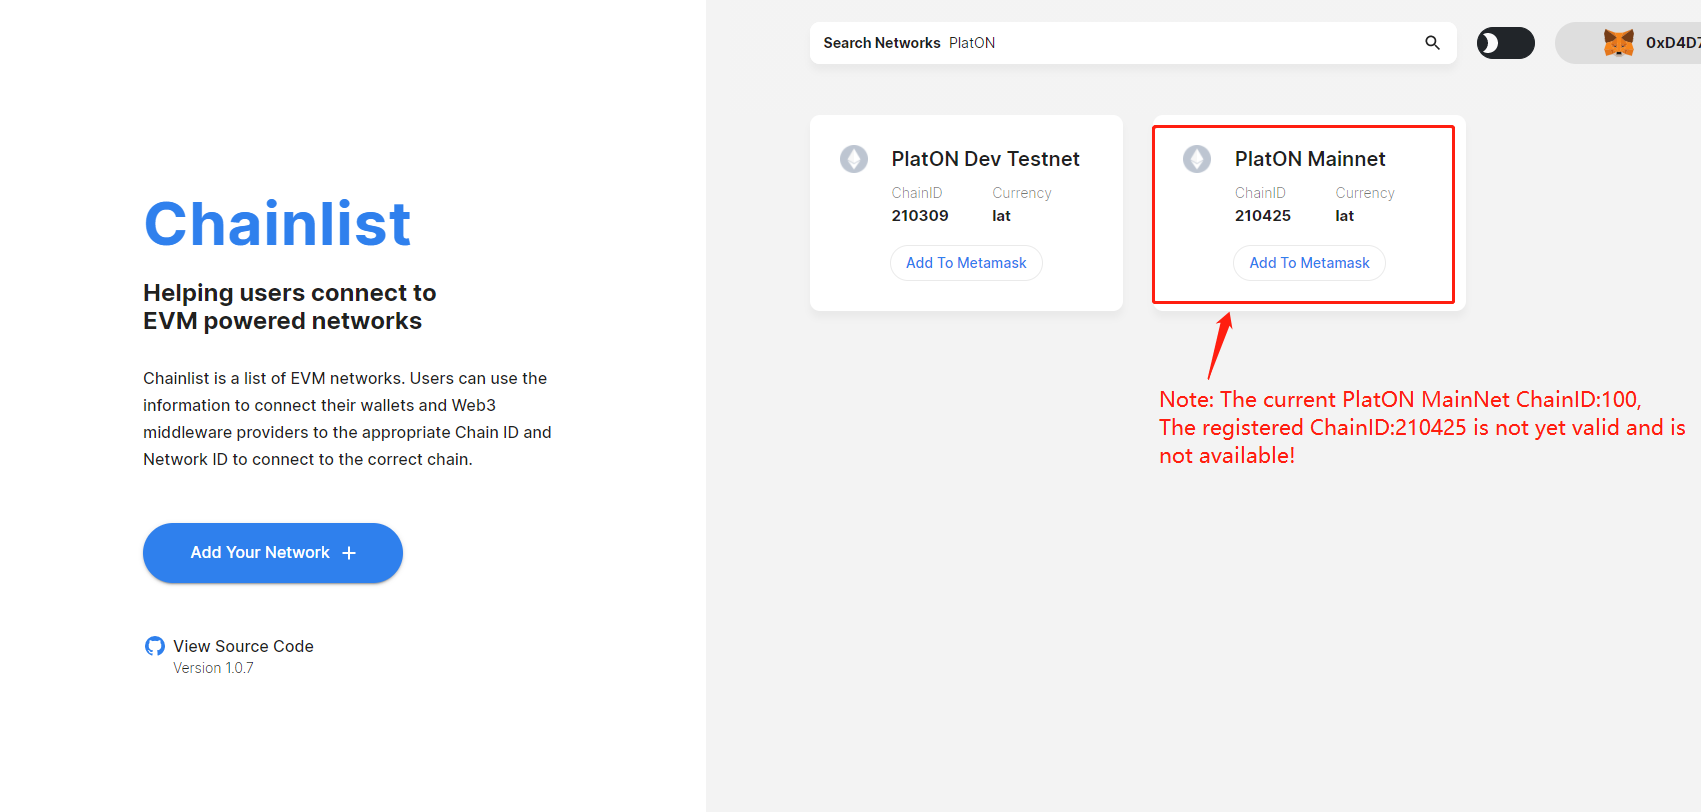
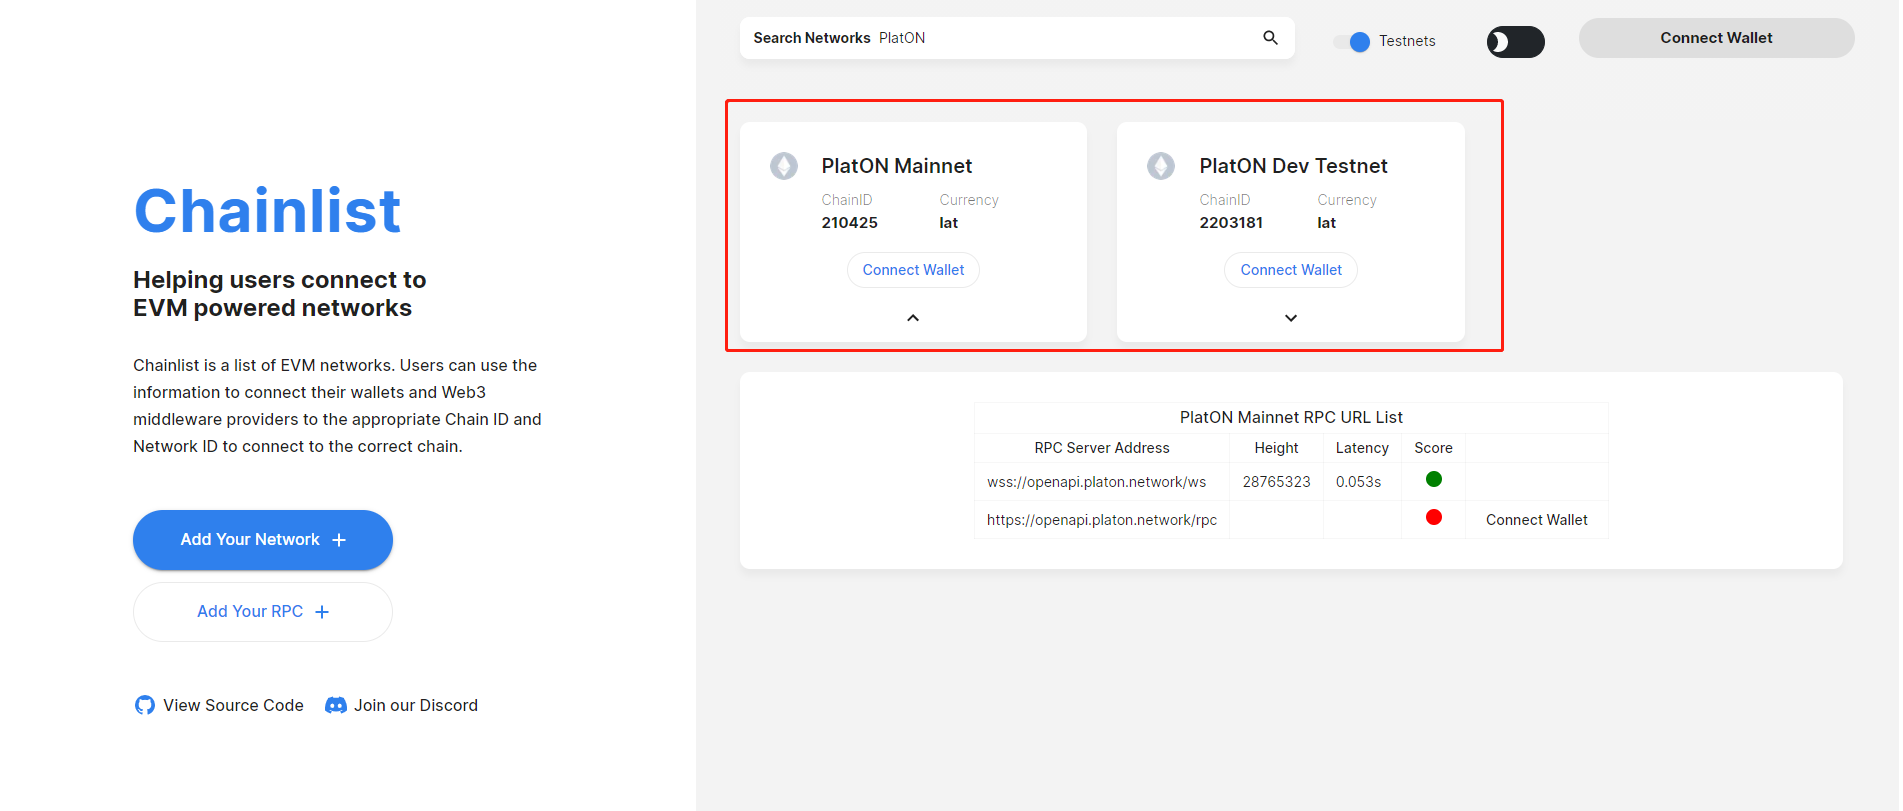
update-matemask

diff --git a/website/i18n/zh-CN/docusaurus-plugin-content-docs/current/MetaMask_Configure.md b/website/i18n/zh-CN/docusaurus-plugin-content-docs/current/MetaMask_Configure.md
@@ -36,9 +36,11 @@ MetaMask作为目前市面上用户量最多，应用最广泛的浏览器插件
 
 2. ATON钱包助记词与MetaMask助记词由于生成路径不一致，无法相互兼容。私钥兼容。
 
-3. MetaMask面向目前暂时不支持WASM合约调用，仅支持EVM合约。
+3. MetaMask目前暂时不支持WASM合约调用，仅支持EVM合约。
 
-4. **由于当前PlatON 主网络的ChainID（100）与xDai主网络相同，因此在MetaMask上配置PlatON主网络前，请删除MetaMask中的xDai主网络，或者通过“手动添加方式”配置PlatON主网络（忽略ChainID冲突的提示）。未来计划更新ChainID为210425，已在Chainlist注册（目前该ChainID：210425 不可用）**
+4. **原PlatON 主网络的ChainID：100，由于与xDai主网络相同，使用 ChainID:100 在 MetaMask上配置 PlatON主网络前，请删除MetaMask中的 xDai主网络，或者通过“手动添加方式”配置PlatON主网络（忽略ChainID冲突的提示）。**
+
+5. **从PlatON1.2.0版本开始(生效时间UTC 2022.4.15 11:00am )，PlatON主网将采用 ChainID：210425，并在未来的6~12个月支持双ChainID运行。建议应用开发者和用户尽早更新ChainID和使用的Node RPC。详见**https://forum.latticex.foundation/t/topic/6176 。
 
 
 
@@ -94,6 +96,20 @@ MetaMask作为目前市面上用户量最多，应用最广泛的浏览器插件
 
 依次填写上述信息，配置内容如下：
 
+- PlatON ChainID:210425 配置信息（推荐）
+
+```
+Network Name: PlatON MainNetwork
+New RPC URL: https://openapi2.platon.network/rpc
+Chain ID：210425
+Currency Symbol：LAT
+Block Explorer URL: https://scan.platon.network/
+```
+
+
+
+- PlatON ChainID:100  配置信息（不建议继续使用）
+
 ```
 Network Name: PlatON MainNetwork
 New RPC URL: https://openapi.platon.network/rpc
@@ -102,9 +118,11 @@ Currency Symbol：LAT
 Block Explorer URL: https://scan.platon.network/
 ```
 
-其他可用PlatON主网络RPC节点：
+其他可用PlatON主网络( ChainID:100 )RPC节点：
 
 > https://rpc.plateye.com（itokenpool提供）
+
+
 
 接着点击保存，等待完成即可。
 
@@ -261,14 +279,13 @@ http://8.220.31.172:6789 (ws://8.220.31.172:6790)
 
 <img src="/docs/img/en/MetaMask_Configure.assets/9800bbe80cff52b23b102f36b0eae9e0c05a7bbd_2_690x338.png" alt="9800bbe80cff52b23b102f36b0eae9e0c05a7bbd_2_690x338"/>
 
-**注意：
-当前PlatON主网ChainID:100，Chainlist已存在ChainID:100的链, 因此暂不支持在Chainlist上添加PlatON主网。注册的ChainID:210425暂未生效，不可用！！**
+**注意：PlatON1.2.0版本主网ChainID:210425已于UTC 2022.4.15 11:00am生效！**
 
 接着，点击“Add tTo MetaMask” 进行网络添加。
 
 <img src="/docs/img/en/MetaMask_Configure.assets/0acc9a52bb0d63ed11f2fb9063a12e059c754298_2_690x338.png" alt="0acc9a52bb0d63ed11f2fb9063a12e059c754298_2_690x338" />
 
-然后点击 **switch network** 就可以跳转到PlatON Dev网络啦！
+然后点击 **switch network** 就可以跳转到PlatON Mainnet或PlatON Dev网络啦！
 
 <img src="/docs/img/en/MetaMask_Configure.assets/image-20220112193135951.png" alt="image-20220112193135951"/>
 

diff --git a/docs/MetaMask_Configure.md b/docs/MetaMask_Configure.md
@@ -40,7 +40,9 @@ MetaMask makes operations such as transfer, signing, and contract interaction mo
 
 3. MetaMask cannot be called by WASM contracts, but EVM contracts only. 
 
-4. **Since the ChainID (100) of the current PlatON MainNet is the same as the xDai MainNet, before configuring the PlatON MainNet on MetaMask, please delete the xDai MainNet in MetaMask, or configure the PlatON MainNet by "manually adding" (Ignore the hint of ChainID conflict). Future plans to update the ChainID to 210425, already registered in Chainlist (currently this ChainID: 210425 is not available)** 
+4. **PlatON Main Network old ChainID: 100, as it is the same as xDai Main Network, please delete the xDai Main Network from MetaMask before configuring PlatON Main Network with ChainID:100, or configure PlatON Main Network by "Manual Add Method". (ignore the ChainID conflict prompt). ** 
+
+5. **Starting from PlatON version 1.2.0 (effective time 2022.4.15 11:00am UTC，For details see：https://forum.latticex.foundation/t/topic/6176 ), PlatON Main Network will adopt ChainID: 210425 and will support double ChainID operation in the next 6~12 months. Application developers and users are advised to update ChainID and the Node RPC used as early as possible.** 
 
 
 
@@ -98,6 +100,20 @@ Then scroll to the end and click "Add Network"
 
 Fill in the above information one by one. The configuration content is as follows: 
 
+- PlatON ChainID:210425 Configuration Information ( Recommended )
+
+```
+Network Name: PlatON MainNetwork
+New RPC URL: https://openapi2.platon.network/rpc
+Chain ID：210425
+Currency Symbol：LAT
+Block Explorer URL: https://scan.platon.network/
+```
+
+
+
+- PlatON ChainID:100 Configuration information (not recommended to continue using）
+
 ```
 Network Name: PlatON MainNetwork
 New RPC URL: https://openapi.platon.network/rpc
@@ -109,6 +125,8 @@ Block Explorer URL: https://scan.platon.network/
 Other available RPC nodes on the PlatON MainNet: 
 
 > https://rpc.plateye.com (provided by itokenpool) 
+
+
 
 Then click Save and wait for it to finish. 
 
@@ -268,8 +286,7 @@ and we can see:
 
 <img src="/docs/img/en/MetaMask_Configure.assets/9800bbe80cff52b23b102f36b0eae9e0c05a7bbd_2_690x338.png" alt="9800bbe80cff52b23b102f36b0eae9e0c05a7bbd_2_690x338"/>
 
-**Note.
-Currently PlatON Mainnet ChainID:100, Chainlist already has a Blockchain with ChainID:100, so adding PlatON Mainnet from Chainlist is not supported for now. The registered ChainID:210425 is not yet valid and is not available!**
+**Note: PlatON version 1.2.0 mainnet ChainID:210425 is effective as of 2022.4.15 11:00am UTC! **
 
 Next, click "Add tTo MetaMask" to add the network. 
 
